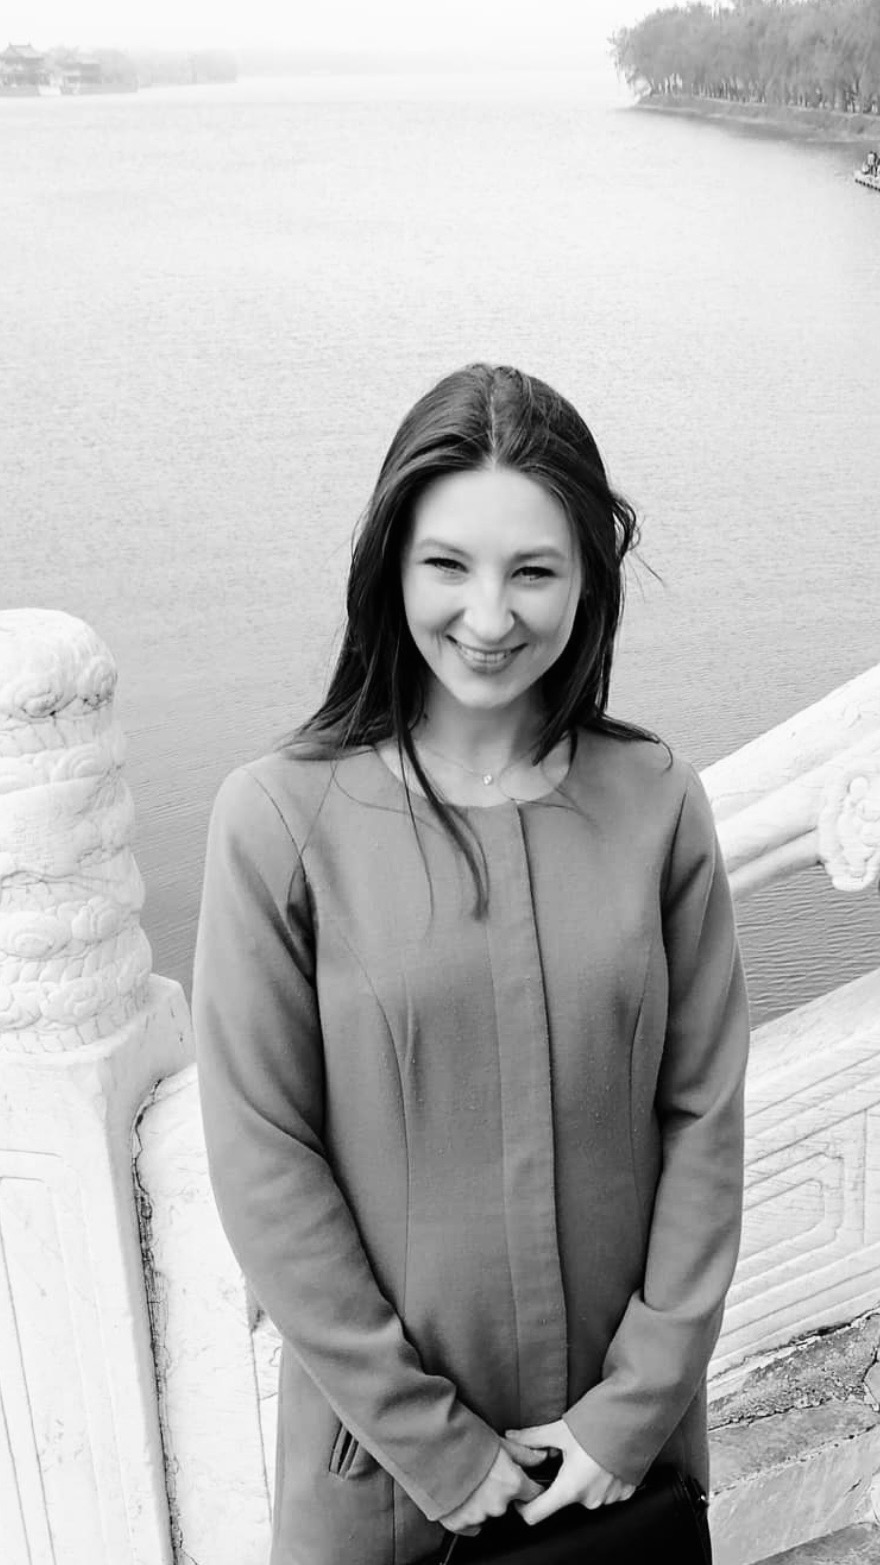
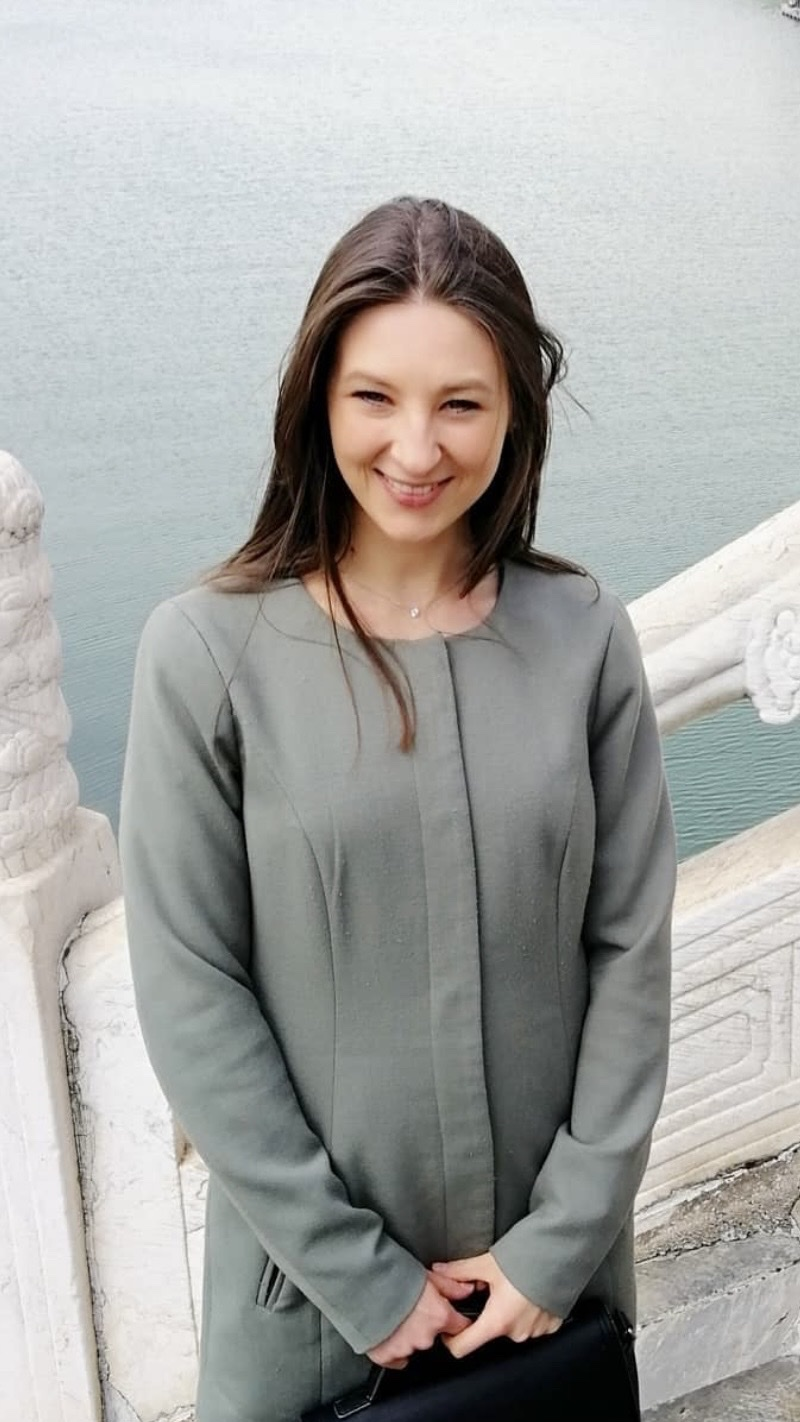
About: black-and-white chapter photos that bloom to color on hover
- Swap in color versions of the chapter photos (Beijing, Don Norman, Yoshi;
  Don Norman re-rotated upright, all resized/recompressed).
- Chapter images render grayscale by default and transition to full color
  on hover; the intro portrait video is untouched and stays in color.

diff --git a/css/v1.css b/css/v1.css
@@ -992,7 +992,7 @@
   padding: 1.4rem 1.5rem;
   opacity: 0;
   transform: scale(1.035);
-  transition: opacity 700ms var(--ease-out), transform 900ms var(--ease-out);
+  transition: opacity 700ms var(--ease-out), transform 900ms var(--ease-out), filter 600ms var(--ease-out);
   pointer-events: none;
 }
 [data-variation="v1"] .ahs-img.is-active {
@@ -1000,6 +1000,10 @@
   transform: none;
   pointer-events: auto;
 }
+/* Chapter photos sit black-and-white and bloom into color on hover; the
+   portrait video (no [data-step]) is left untouched, so it stays in color. */
+[data-variation="v1"] .ahs-img[data-step] { filter: grayscale(1); }
+[data-variation="v1"] .ahs-img[data-step]:hover { filter: grayscale(0); }
 [data-variation="v1"] .ahs-video {
   position: absolute;
   inset: 0;

diff --git a/index.html b/index.html
@@ -29,7 +29,7 @@
   <!-- Wall of Fame route fonts -->
   <link rel="stylesheet" href="https://fonts.googleapis.com/css2?family=Archivo:wght@600;900&family=Libre+Caslon+Text:ital@1&family=Space+Mono:wght@400;700&display=swap" />
   <link rel="stylesheet" href="css/shared.css?v=2026-06-13-19" />
-  <link rel="stylesheet" href="css/v1.css?v=2026-06-14-1" />
+  <link rel="stylesheet" href="css/v1.css?v=2026-06-14-2" />
   <link rel="stylesheet" href="css/wip.css?v=2026-06-12-3" />
   <link rel="stylesheet" href="css/wall-of-fame.css?v=2026-06-12-7" />
 </head>
